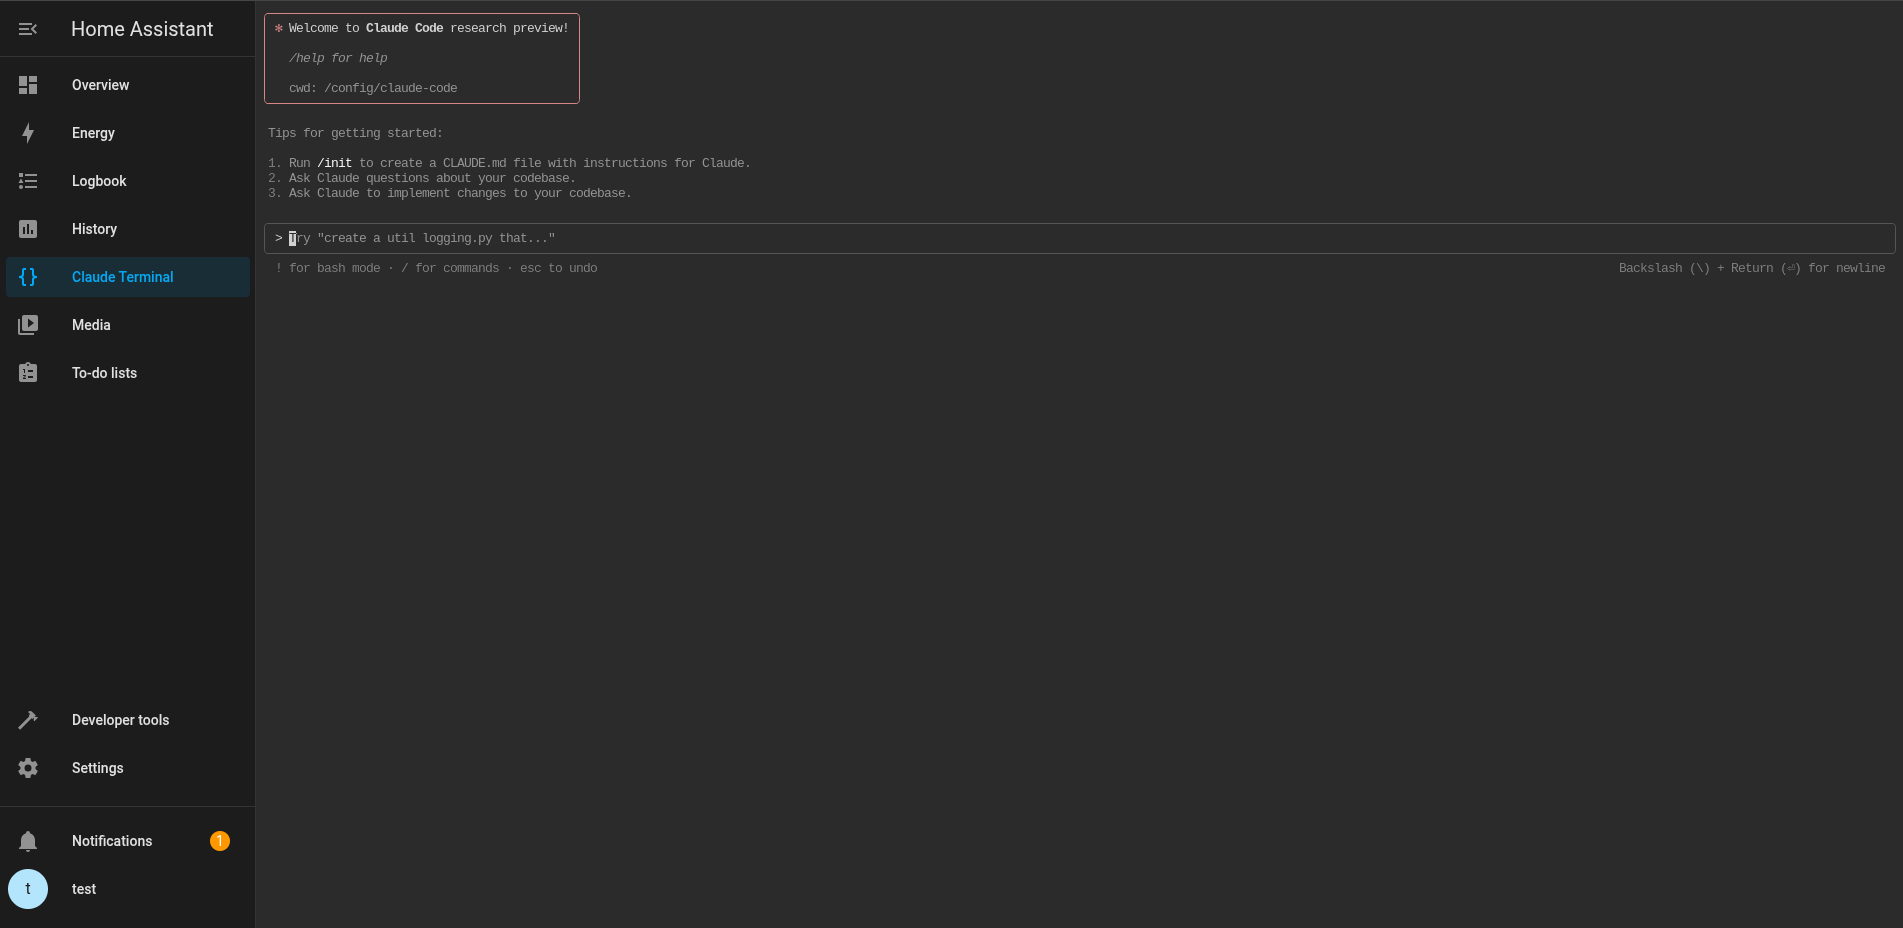
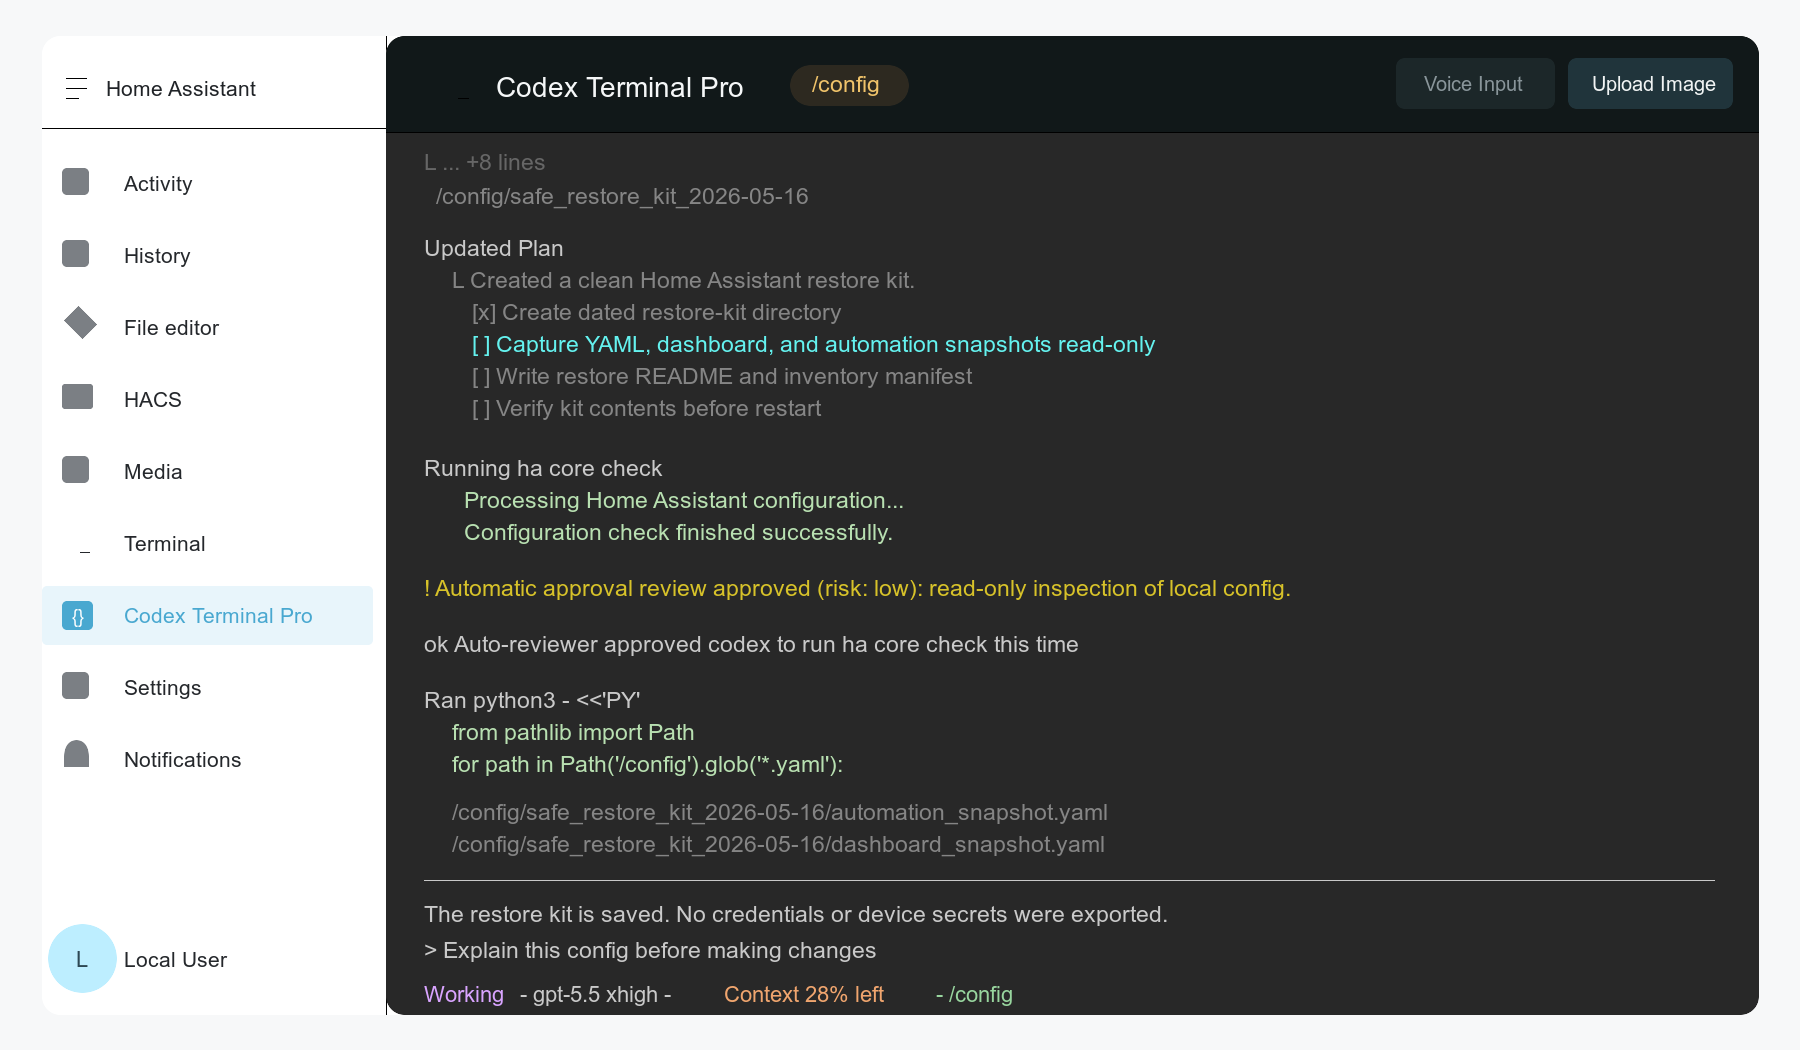
Add Codex Terminal Pro screenshot section

diff --git a/style.css b/style.css
@@ -687,6 +687,48 @@ dd,
   border-right: 0;
 }
 
+.product-screenshot {
+  display: grid;
+  gap: clamp(1.35rem, 3vw, 2rem);
+  padding: clamp(56px, 8vw, 96px) 0;
+  border-top: 1px solid var(--line);
+}
+
+.screenshot-copy {
+  display: grid;
+  grid-template-columns: 72px minmax(220px, 0.65fr) minmax(260px, 1fr);
+  gap: 1rem;
+  align-items: start;
+}
+
+.screenshot-copy .index-number,
+.product-screenshot.codex-signal .index-number {
+  color: var(--signal);
+}
+
+.screenshot-copy h2 {
+  max-width: 520px;
+}
+
+.screenshot-copy p:last-child {
+  max-width: 540px;
+  margin-bottom: 0;
+  color: var(--muted);
+}
+
+.screenshot-frame {
+  margin: 0;
+  padding-top: 1rem;
+}
+
+.screenshot-frame img {
+  display: block;
+  width: 100%;
+  height: auto;
+  border: 1px solid var(--line-dark);
+  background: #282828;
+}
+
 .app-notes {
   border-top: 1px solid var(--line);
 }
@@ -851,6 +893,7 @@ dd,
   .product-row,
   .spec-grid,
   .principles,
+  .screenshot-copy,
   .download-card,
   .status-band {
     grid-template-columns: 1fr;

diff --git a/codex-terminal-pro.html b/codex-terminal-pro.html
@@ -16,10 +16,14 @@
     <meta property="og:title" content="Codex Terminal Pro">
     <meta property="og:description" content="Codex for Home Assistant.">
     <meta property="og:image" content="https://jeremiahsrandom.website/assets/codex-terminal-pro-screenshot.png">
+    <meta property="og:image:width" content="1800">
+    <meta property="og:image:height" content="1050">
+    <meta property="og:image:alt" content="Codex Terminal Pro running inside Home Assistant.">
     <meta name="twitter:card" content="summary_large_image">
     <meta name="twitter:title" content="Codex Terminal Pro">
     <meta name="twitter:description" content="Codex for Home Assistant.">
     <meta name="twitter:image" content="https://jeremiahsrandom.website/assets/codex-terminal-pro-screenshot.png">
+    <meta name="twitter:image:alt" content="Codex Terminal Pro running inside Home Assistant.">
     <link rel="icon" href="assets/inat-logo.png" type="image/png">
     <link rel="stylesheet" href="style.css">
   </head>
@@ -77,6 +81,26 @@
           <span>$ codex</span>
           <span class="status-dot">ready</span>
         </div>
+      </section>
+
+      <section class="product-screenshot codex-signal" aria-labelledby="codex-screenshot-title">
+        <div class="screenshot-copy">
+          <p class="index-number">Screen</p>
+          <h2 id="codex-screenshot-title">Codex inside Home Assistant.</h2>
+          <p>
+            A sanitized preview of the add-on shell: Home Assistant navigation,
+            the Codex Terminal Pro header, and a live terminal session working in
+            <code>/config</code>.
+          </p>
+        </div>
+        <figure class="screenshot-frame">
+          <img
+            src="assets/codex-terminal-pro-screenshot.png"
+            width="1800"
+            height="1050"
+            alt="Sanitized Codex Terminal Pro session inside Home Assistant showing a plan, read-only approvals, command output, and a /config status line."
+          >
+        </figure>
       </section>
 
       <section class="principles app-notes" aria-labelledby="codex-notes">